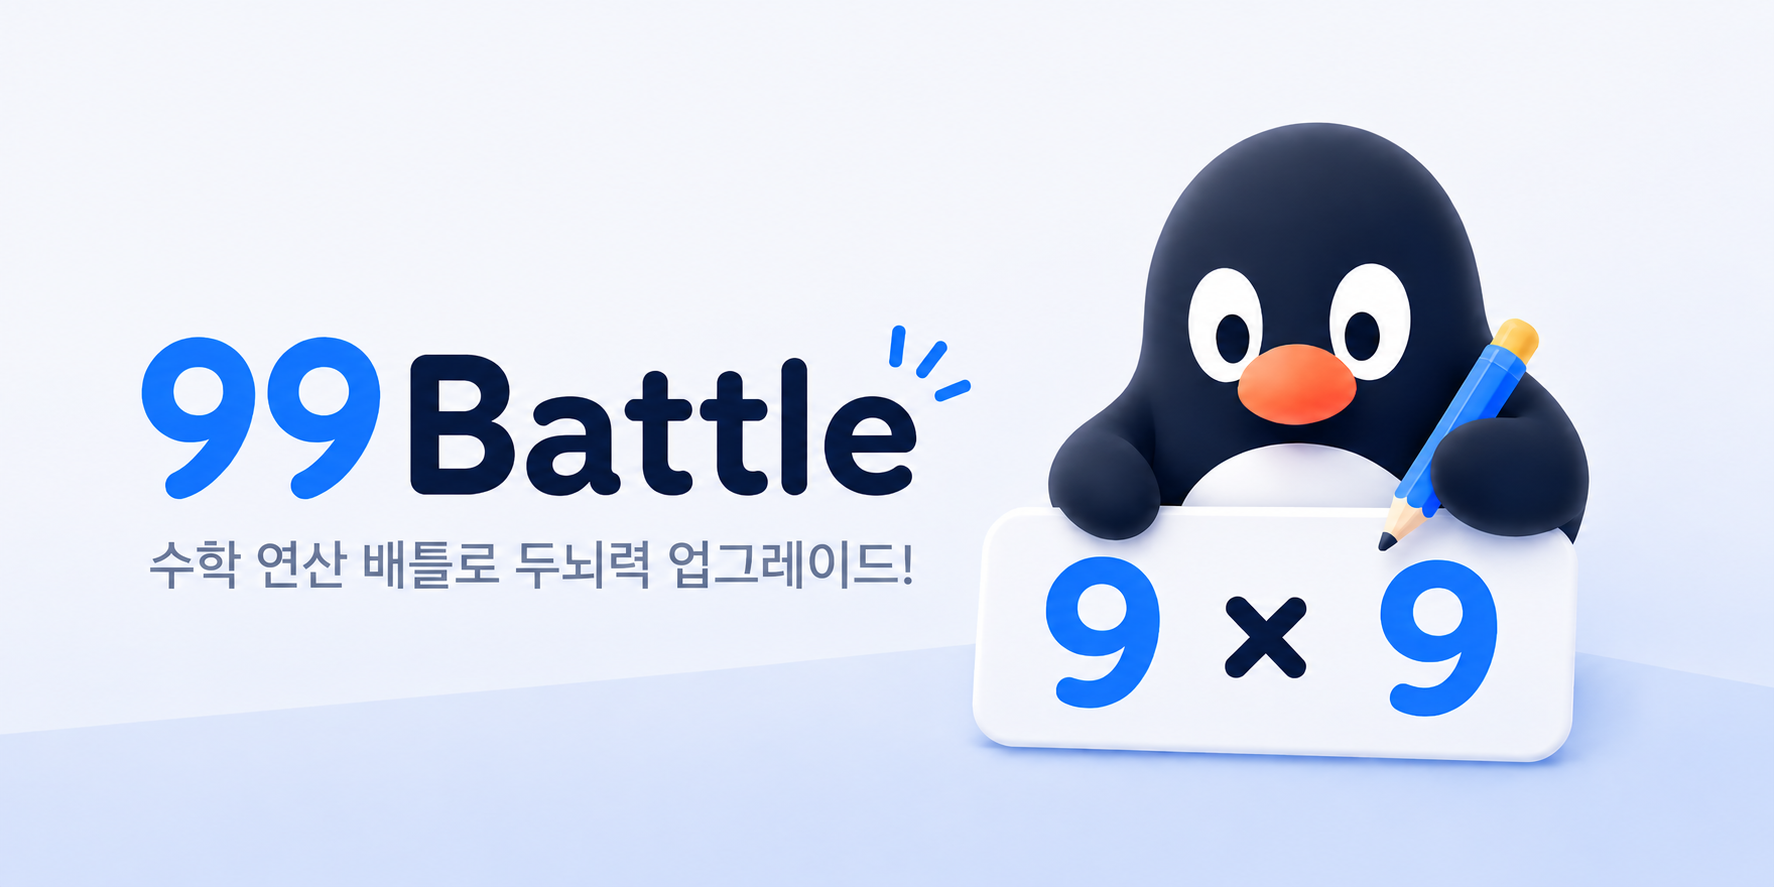
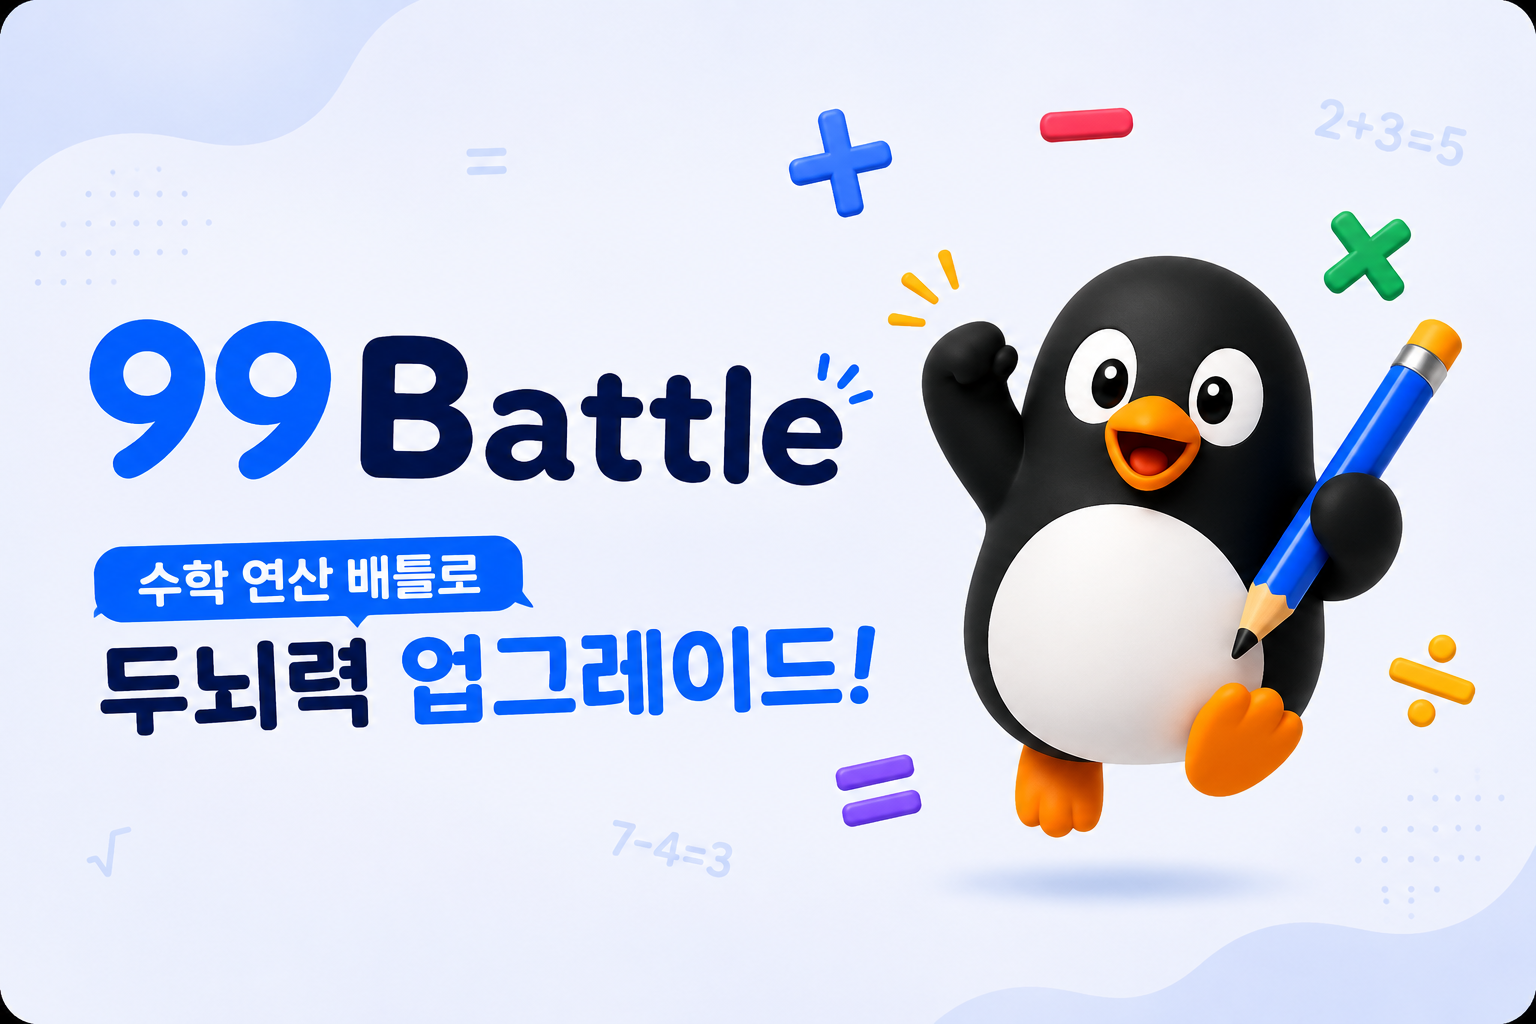
Add Open Graph/Twitter card meta tags with the real production URL
Root cause of "KakaoTalk preview shows no image" was that og:image
(and every other OG/Twitter meta tag) never existed in index.html --
unrelated to the favicon. Added og:title/description/image/url and
twitter:card equivalents pointing to https://99battle.vercel.app/,
confirmed by curl (200) rather than guessed (an earlier guess at
99-battle.vercel.app 404'd).

Also applied the latest og-image.png revision and swapped favicon.png
for favicon2.png's content.

diff --git a/frontend/index.html b/frontend/index.html
@@ -13,6 +13,15 @@
     <meta name="apple-mobile-web-app-capable" content="yes" />
     <meta name="apple-mobile-web-app-status-bar-style" content="default" />
     <meta name="description" content="구구배틀 - 실시간 멀티플레이 수학 배틀 게임" />
+    <meta property="og:type" content="website" />
+    <meta property="og:url" content="https://99battle.vercel.app/" />
+    <meta property="og:title" content="99 Battle - 구구배틀" />
+    <meta property="og:description" content="수학 연산 배틀로 두뇌력 업그레이드! 친구들과 실시간으로 겨루는 수학 배틀 게임" />
+    <meta property="og:image" content="https://99battle.vercel.app/og-image.png" />
+    <meta name="twitter:card" content="summary_large_image" />
+    <meta name="twitter:title" content="99 Battle - 구구배틀" />
+    <meta name="twitter:description" content="수학 연산 배틀로 두뇌력 업그레이드! 친구들과 실시간으로 겨루는 수학 배틀 게임" />
+    <meta name="twitter:image" content="https://99battle.vercel.app/og-image.png" />
     <title>99 Battle - 구구배틀</title>
   </head>
   <body>
